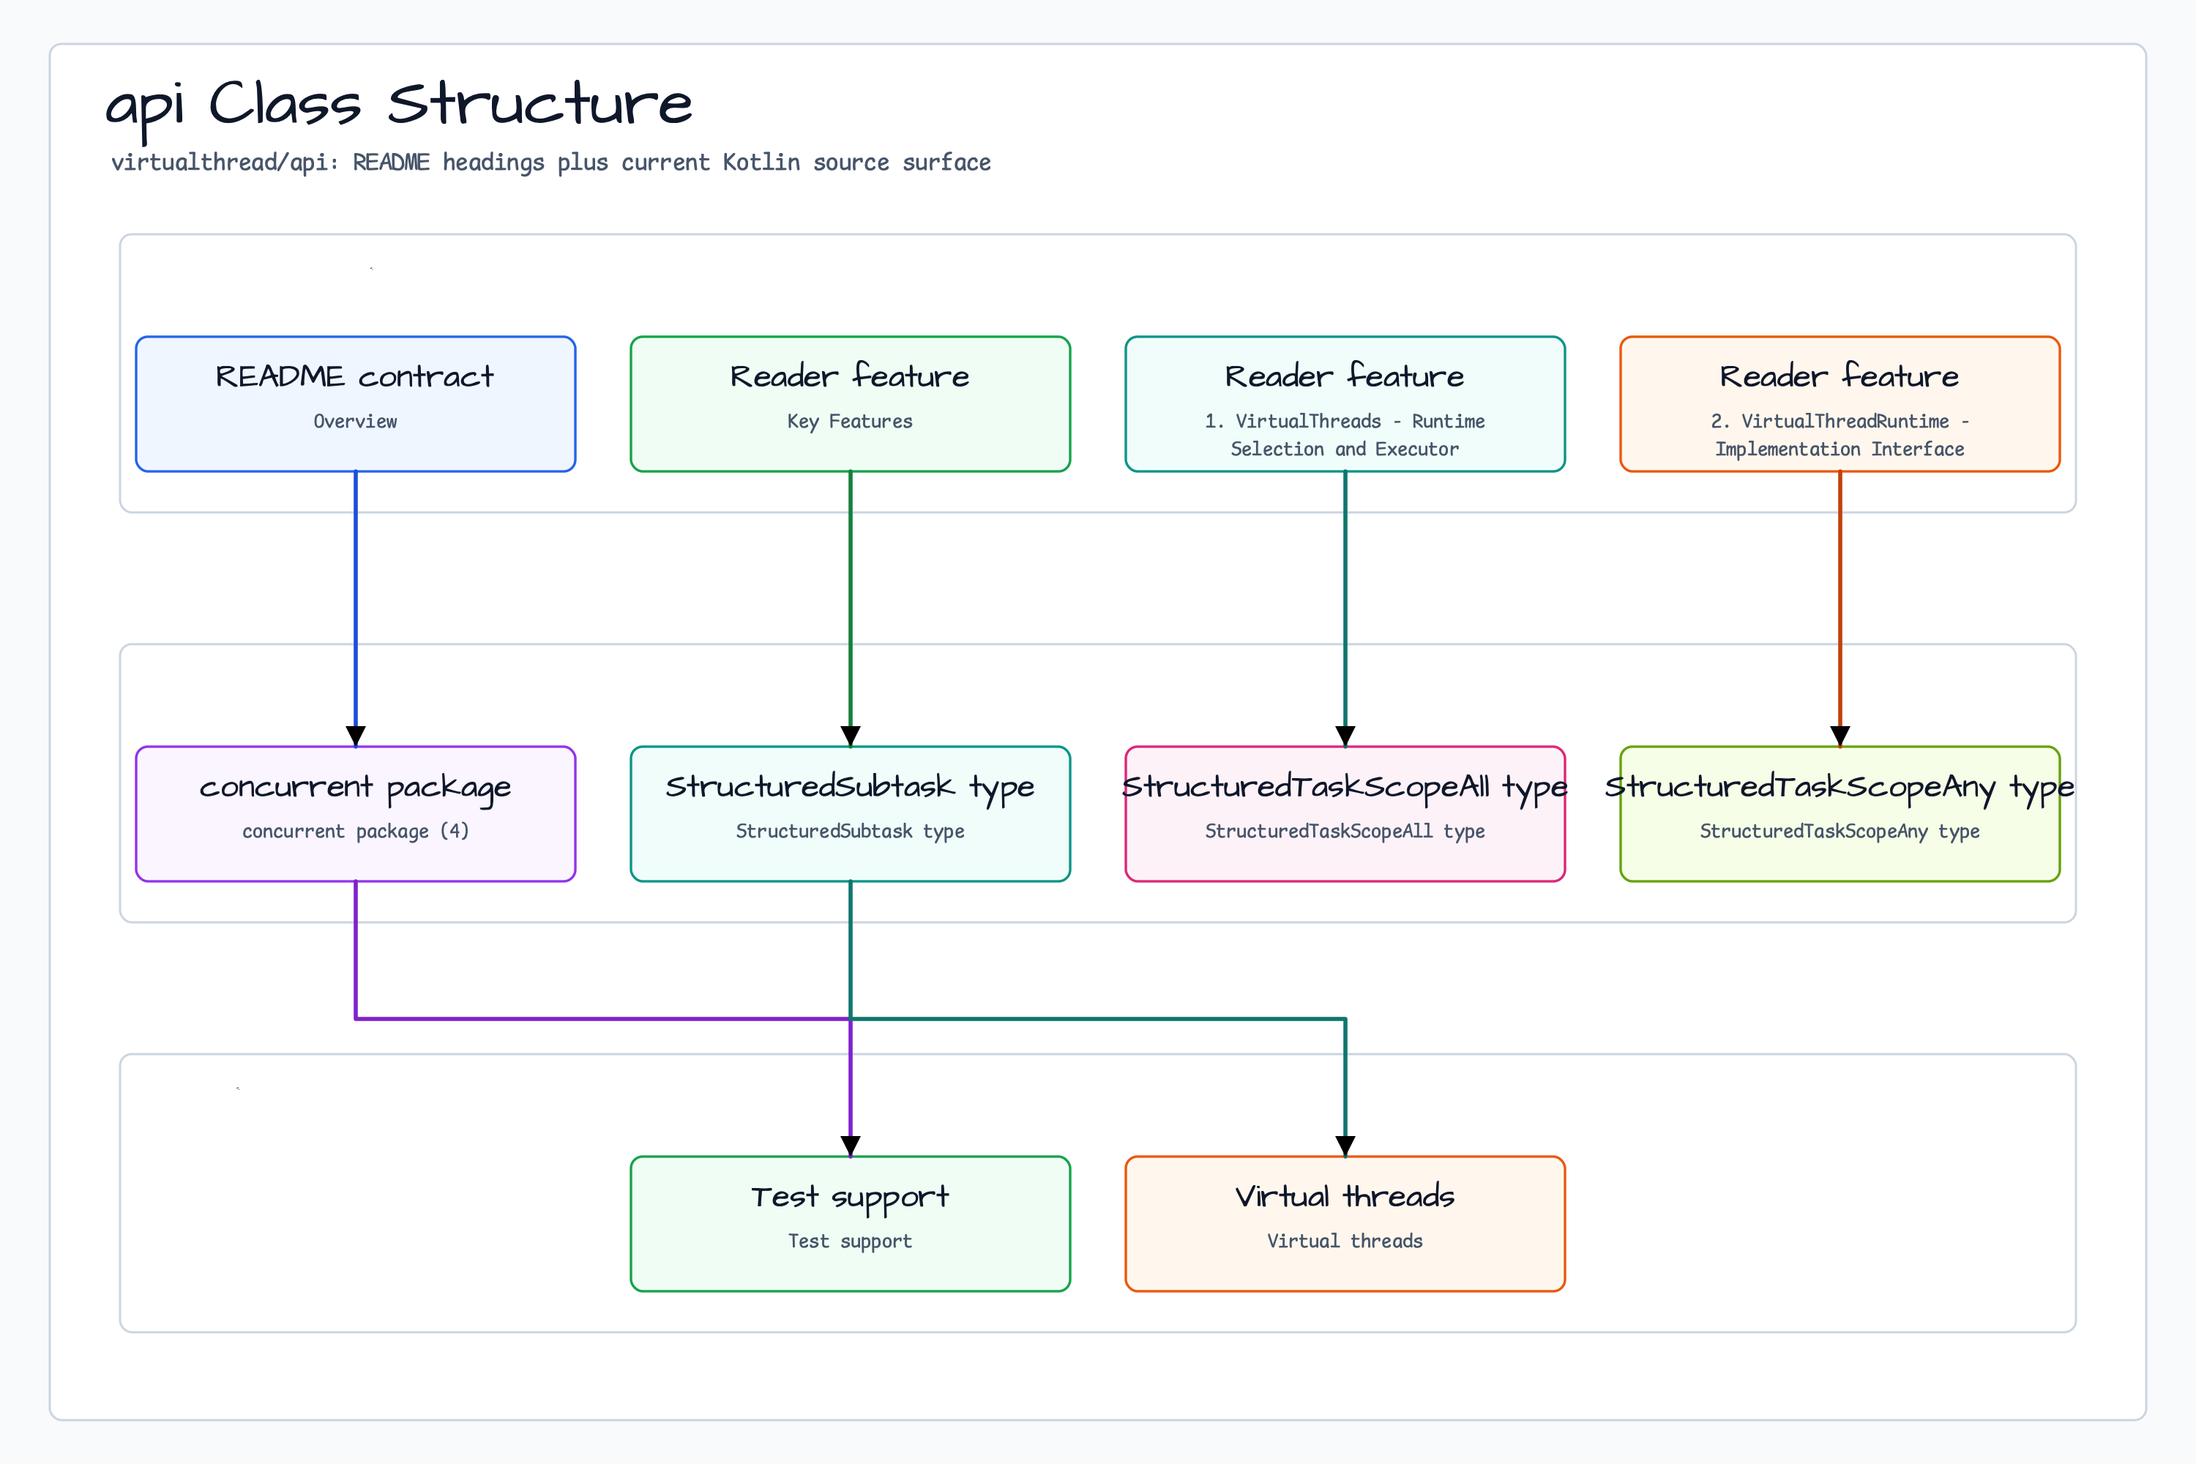
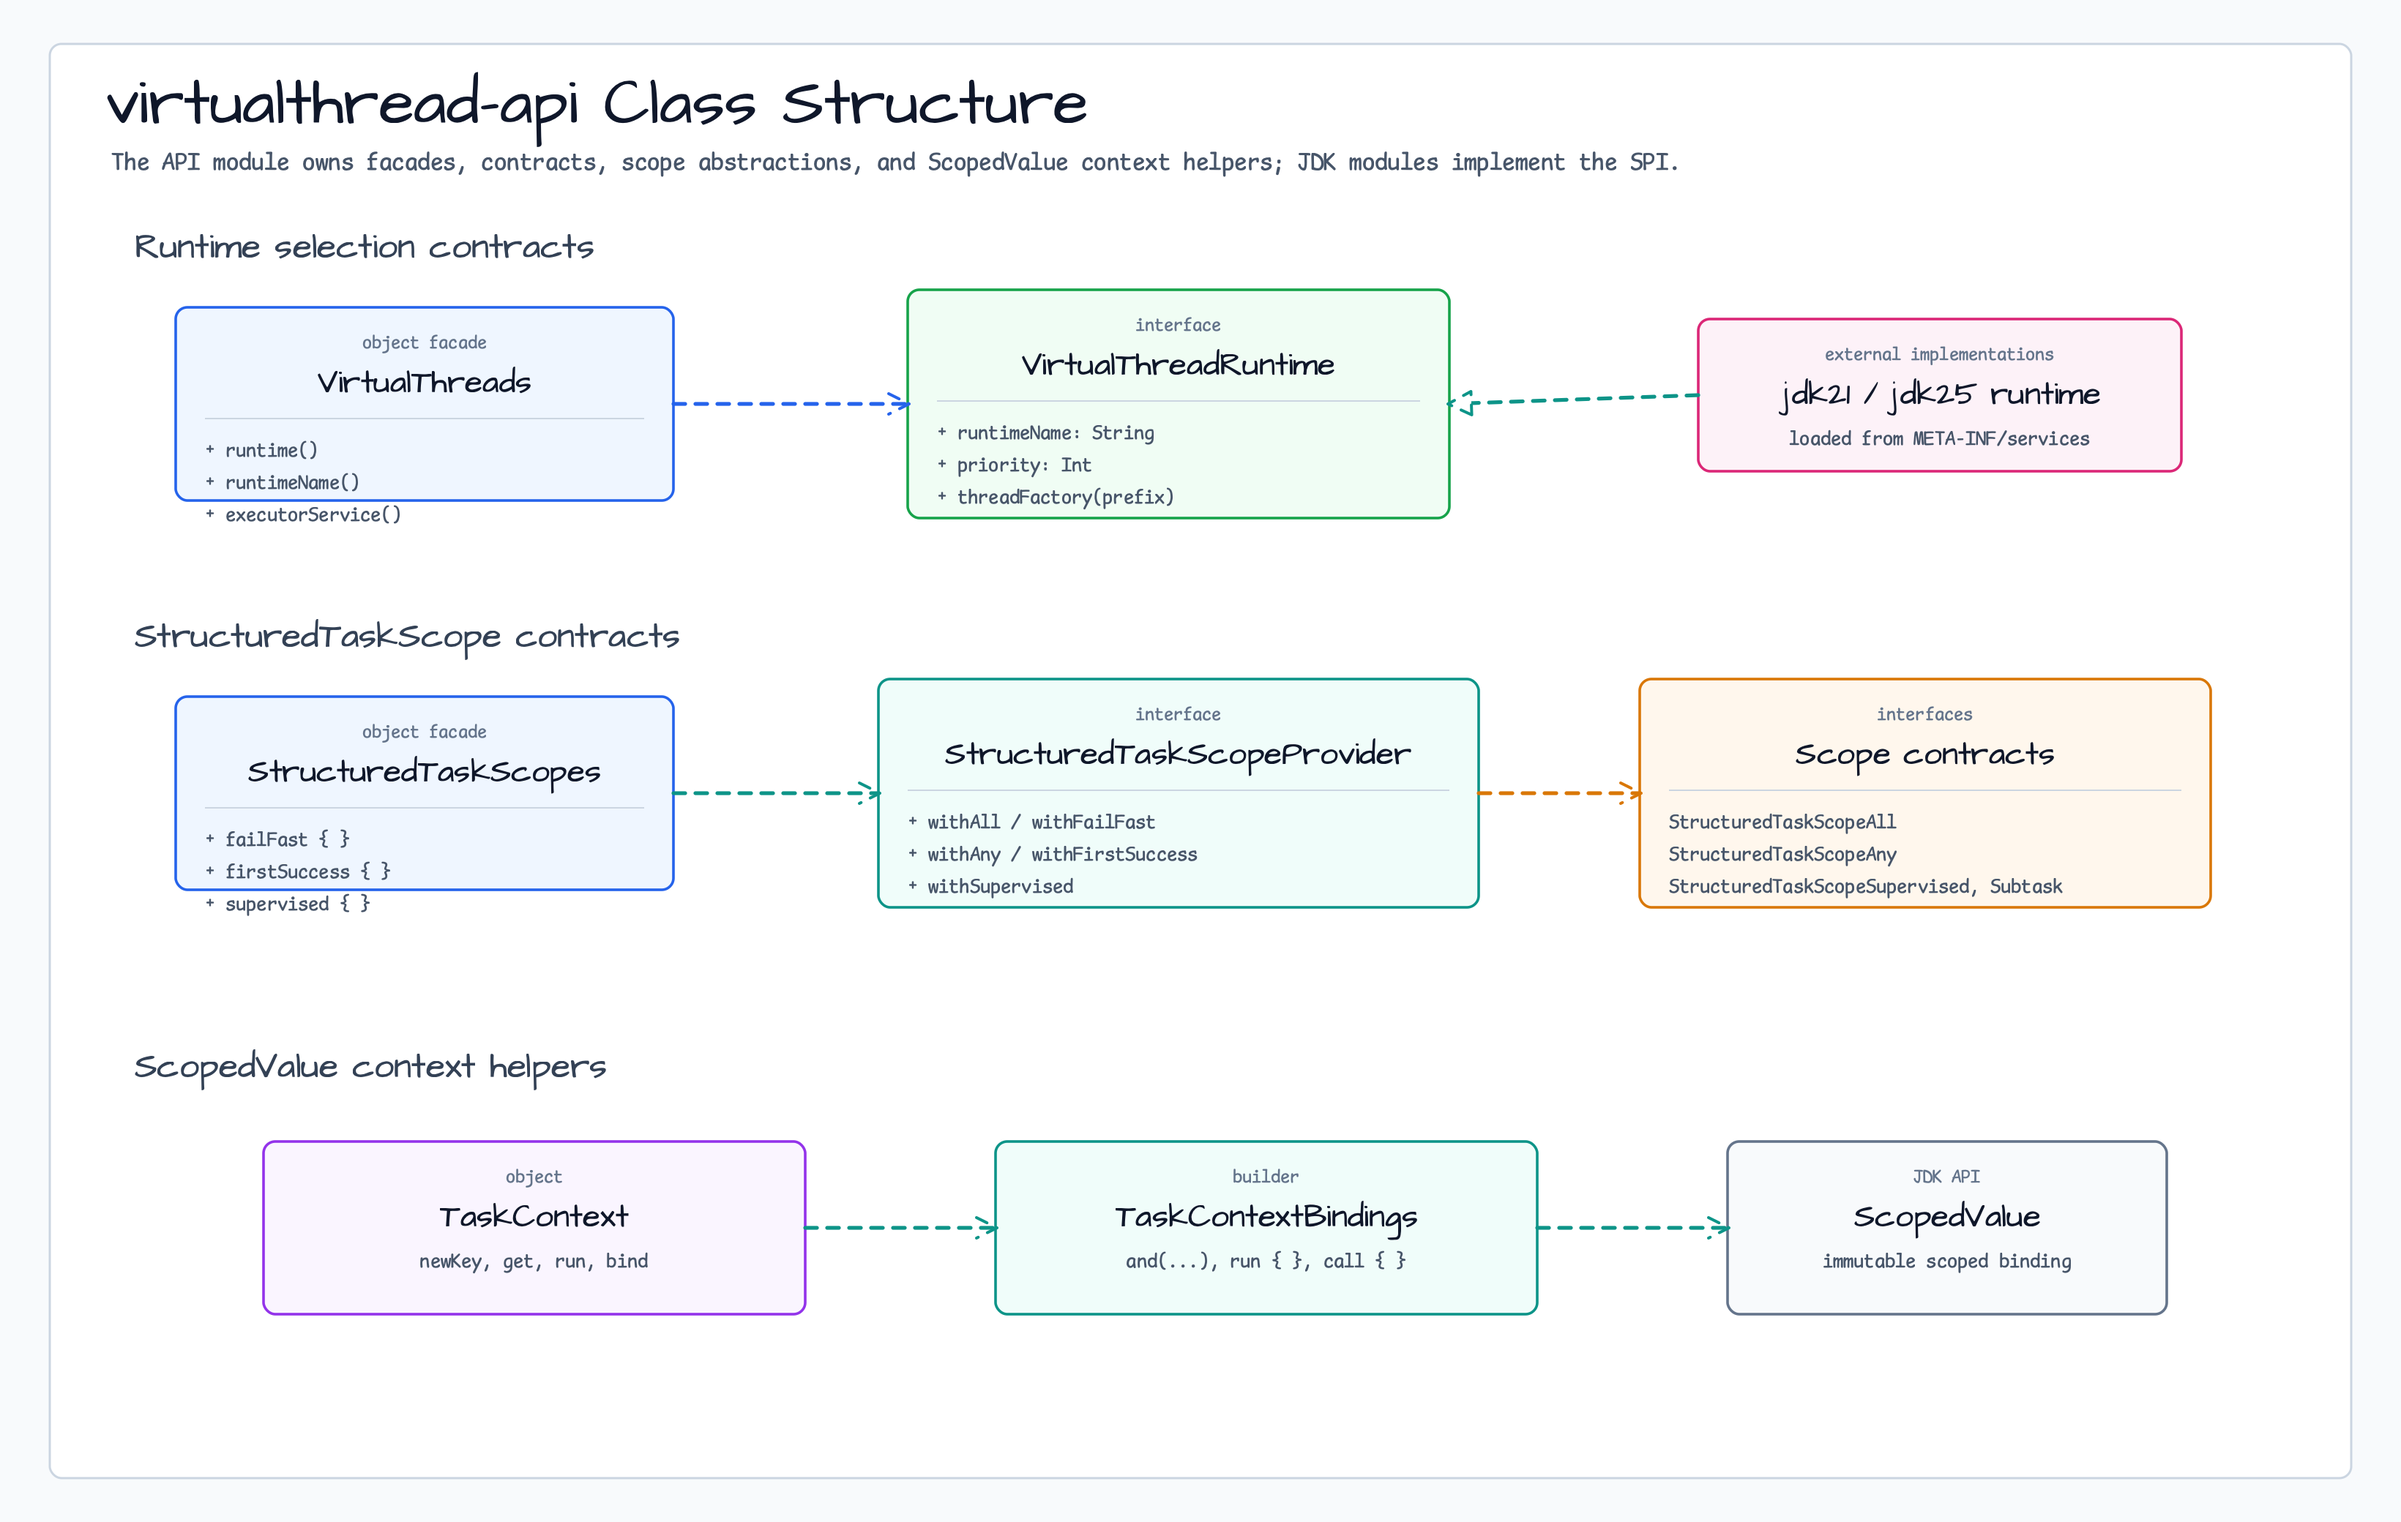
docs: redraw virtualthread api diagrams
Replace template-derived virtualthread-api visuals with source-backed diagrams for API contracts and ServiceLoader runtime selection.

Constraint: diagrams must match VirtualThreads, StructuredTaskScopes, TaskContext, and provider-discovery source behavior.

Rejected: README contract and Reader feature placeholder cards | they obscure the API module responsibilities.

Confidence: high

Scope-risk: narrow

Directive: keep virtualthread-api visuals focused on facade contracts, SPI boundaries, supported-provider filtering, priority sorting, and fallback semantics.

Tested: XML parse for 2 virtualthread-api SVGs; forbidden-pattern scan; cairosvg render for both PNGs; contact-sheet visual inspection; git diff --check.

Not-tested: Gradle build, documentation-only visual update.

diff --git a/virtualthread/api/README.md b/virtualthread/api/README.md
@@ -242,11 +242,11 @@ class VirtualThreadsTest {
 
 ## Class Diagram
 
-![api Class Structure diagram](../../docs/images/readme-diagrams/virtualthread-api-diagram-01.png)
+![virtualthread-api class structure for runtime facades, SPI contracts, StructuredTaskScope contracts, and TaskContext helpers](../../docs/images/readme-diagrams/virtualthread-api-diagram-01.png)
 
 ## `ServiceLoader`-Based Runtime Selection Flow
 
-![ServiceLoader-Based Runtime Selection Flow diagram](../../docs/images/readme-diagrams/virtualthread-api-diagram-02.png)
+![ServiceLoader-based runtime selection flow for lazy provider discovery, supported-provider filtering, priority sorting, and fallback delegation](../../docs/images/readme-diagrams/virtualthread-api-diagram-02.png)
 
 ## References
 

diff --git a/virtualthread/api/README.ko.md b/virtualthread/api/README.ko.md
@@ -240,11 +240,11 @@ class VirtualThreadsTest {
 
 ## 클래스 다이어그램
 
-![api Class Structure diagram](../../docs/images/readme-diagrams/virtualthread-api-diagram-01.png)
+![런타임 파사드, SPI 계약, StructuredTaskScope 계약, TaskContext 도우미를 보여주는 virtualthread-api 클래스 구조](../../docs/images/readme-diagrams/virtualthread-api-diagram-01.png)
 
 ## ServiceLoader 기반 런타임 선택 흐름
 
-![ServiceLoader diagram](../../docs/images/readme-diagrams/virtualthread-api-diagram-02.png)
+![lazy provider 발견, 지원 provider 필터링, 우선순위 정렬, fallback 위임을 보여주는 ServiceLoader 기반 런타임 선택 흐름](../../docs/images/readme-diagrams/virtualthread-api-diagram-02.png)
 
 ## 참고 자료
 
